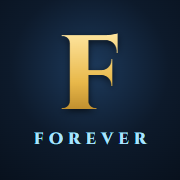
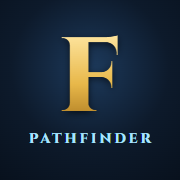
Nuovo nome: Forever Pathfinder

diff --git a/WoW_Forever_Leveling_Companion.html b/WoW_Forever_Leveling_Companion.html
@@ -2,8 +2,8 @@
 <html lang="it"><head>
 <meta charset="utf-8"><meta name="viewport" content="width=device-width, initial-scale=1, viewport-fit=cover">
 <meta name="theme-color" content="#0a1422">
-<link rel="manifest" href="manifest.webmanifest"><link rel="icon" href="icon-192.png"><link rel="apple-touch-icon" href="icon-180.png"><meta name="apple-mobile-web-app-capable" content="yes"><meta name="mobile-web-app-capable" content="yes"><meta name="apple-mobile-web-app-title" content="WoW Forever">
-<title>WoW Forever Leveling Companion</title>
+<link rel="manifest" href="manifest.webmanifest"><link rel="icon" href="icon-192.png"><link rel="apple-touch-icon" href="icon-180.png"><meta name="apple-mobile-web-app-capable" content="yes"><meta name="mobile-web-app-capable" content="yes"><meta name="apple-mobile-web-app-title" content="Pathfinder">
+<title>Forever Pathfinder – WoW: Forever</title>
 <script>/* lingua: quella scelta con la bandierina, altrimenti quella del browser */try{var lg=localStorage.getItem('wfcLang')||(/^it/i.test(navigator.language)?'it':'en');if(lg!==document.documentElement.lang)location.replace((lg==='en'?'WoW_Forever_Leveling_Companion_EN.html':'WoW_Forever_Leveling_Companion.html')+location.search+location.hash)}catch(e){}</script>
 <link rel="preconnect" href="https://fonts.googleapis.com"><link rel="preconnect" href="https://fonts.gstatic.com" crossorigin>
 <link href="https://fonts.googleapis.com/css2?family=Cinzel:wght@600;800&family=Inter:wght@400;600;800&display=swap" rel="stylesheet">
@@ -263,7 +263,7 @@ body.home main,body.home nav,body.home #cbar,body:not(.home) #home{display:none}
 <header class="hero">
  <div class="herobg" aria-hidden="true"><div id="herobg"></div></div>
  <a class="lang" id="lang" href="WoW_Forever_Leveling_Companion_EN.html" hreflang="en" title="English" aria-label="English"><svg viewBox="0 0 60 30" width="34" height="17" aria-hidden="true"><path fill="#012169" d="M0 0h60v30H0z"/><path stroke="#fff" stroke-width="6" d="M0 0l60 30M60 0L0 30"/><path stroke="#C8102E" stroke-width="2" d="M0 0l60 30M60 0L0 30"/><path stroke="#fff" stroke-width="10" d="M30 0v30M0 15h60"/><path stroke="#C8102E" stroke-width="6" d="M30 0v30M0 15h60"/></svg></a>
- <h1 class="ttl"><small>World of Warcraft</small><b>Forever</b><i>Leveling Companion</i></h1>
+ <h1 class="ttl"><small>World of Warcraft</small><b>Forever</b><i>Pathfinder</i></h1>
  <p id="hsub"></p>
  <p>Uscita: <b id="hlaunch"></b> · <span class="cd" id="cd"></span></p>
  <div class="hbtns"><button class="btn" id="bShare" type="button">⇄ Passa a un altro dispositivo</button>
@@ -711,11 +711,11 @@ function renderClass(){
  // fonti
  $('srct').innerHTML='<tr><th>Fonte</th><th>Data / segnale</th><th>Cosa ho preso</th></tr>'+CL.sources.concat(FA.sources,C.sources,D.profs?D.profs.sources:[],D.alts?D.alts.sources:[]).map(srcRow).join('');
  // testata
- document.title=RA.name+' '+CL.name+' '+CL.spec+' – WoW Forever';document.documentElement.style.setProperty('--cc',CL.color||'var(--ice)');
+ document.title=RA.name+' '+CL.name+' '+CL.spec+' – Forever Pathfinder';document.documentElement.style.setProperty('--cc',CL.color||'var(--ice)');
  $('hsub').innerHTML='Guida leveling 1–'+MAXL+' per WoW: Forever · '+FN[RA.faction]+' · <b>'+C.version+'</b> · '+C.updated;
  $('herobg').innerHTML=RT.hero.map(function(u){return '<img src="'+u+'" alt="">'}).join('');
  var vi=document.querySelector('.visits img');vi.onerror=function(){vi.outerHTML='Contatore visite bloccato da un adblock: <a href="'+vi.dataset.src+'" target="_blank" rel="noopener">aprilo qui</a>'};if(!navigator.webdriver)vi.src=vi.dataset.src;
- $('foot').textContent='Guida personale · WoW: Forever Leveling Companion · '+C.version+' ('+C.updated+'). Non affiliata a Blizzard. Icone © Blizzard via Wowhead.';
+ $('foot').textContent='Guida personale · Forever Pathfinder · '+C.version+' ('+C.updated+'). Non affiliata a Blizzard. Icone © Blizzard via Wowhead.';
  $('lvr').max=MAXL;$('tlsum').textContent='Tutto il percorso 1–'+MAXL+' in una riga temporale';
  WF.shown=null;wfFit();
 }
@@ -891,7 +891,7 @@ function preBtns(add){return P.list.map(function(p,i){var s=fix(p.s),rc=D.races[
   return '<button type="button" class="pre'+(i===P.cur?' on':'')+'" data-pi="'+i+'"><img src="'+IC('classicon_'+s.c)+'" alt=""><span><b>'+esc(p.n||rc)+'</b><small>'+(p.n?rc+' ':'')+pSpec(s)+' · liv. '+s.L+'</small></span></button>'}).join('')+
  (add?'<button type="button" class="pre add" data-pi="new">＋ Nuovo personaggio</button>':'')}
 // salvataggio su file: .txt con una riga di spiegazione e tutti i personaggi (P) in base64; lo rilegge solo "Carica salvataggio"
-var SVH='WoW Forever Leveling Companion - file di salvataggio. Per ripristinarlo: guida, 👥 Personaggi, Carica salvataggio. Non modificare la riga qui sotto.';
+var SVH='Forever Pathfinder (WoW: Forever) - file di salvataggio. Per ripristinarlo: guida, 👥 Personaggi, Carica salvataggio. Non modificare la riga qui sotto.';
 $('svSave').onclick=function(){var a=document.createElement('a');a.href=URL.createObjectURL(new Blob([SVH+'\n'+btoa(unescape(encodeURIComponent(JSON.stringify(P))))+'\n'],{type:'text/plain'}));a.download='WoW-Forever-salvataggio-'+new Date().toISOString().slice(0,10)+'.txt';a.click();setTimeout(function(){URL.revokeObjectURL(a.href)},1000)};
 $('svLoad').onchange=function(){var f=this.files[0];this.value='';if(f)f.text().then(function(t){var p=null;try{p=JSON.parse(decodeURIComponent(escape(atob(t.trim().split('\n').pop().trim()))));p.list=p.list.filter(function(x){return x&&x.s})}catch(e){p=null}
  if(!p||!p.list||!p.list.length)return alert('Questo file non è un salvataggio della guida.');

diff --git a/WoW_Forever_Leveling_Companion_EN.html b/WoW_Forever_Leveling_Companion_EN.html
@@ -2,8 +2,8 @@
 <html lang="en"><head>
 <meta charset="utf-8"><meta name="viewport" content="width=device-width, initial-scale=1, viewport-fit=cover">
 <meta name="theme-color" content="#0a1422">
-<link rel="manifest" href="manifest.webmanifest"><link rel="icon" href="icon-192.png"><link rel="apple-touch-icon" href="icon-180.png"><meta name="apple-mobile-web-app-capable" content="yes"><meta name="mobile-web-app-capable" content="yes"><meta name="apple-mobile-web-app-title" content="WoW Forever">
-<title>WoW Forever Leveling Companion</title>
+<link rel="manifest" href="manifest.webmanifest"><link rel="icon" href="icon-192.png"><link rel="apple-touch-icon" href="icon-180.png"><meta name="apple-mobile-web-app-capable" content="yes"><meta name="mobile-web-app-capable" content="yes"><meta name="apple-mobile-web-app-title" content="Pathfinder">
+<title>Forever Pathfinder – WoW: Forever</title>
 <script>/* lingua: quella scelta con la bandierina, altrimenti quella del browser */try{var lg=localStorage.getItem('wfcLang')||(/^it/i.test(navigator.language)?'it':'en');if(lg!==document.documentElement.lang)location.replace((lg==='en'?'WoW_Forever_Leveling_Companion_EN.html':'WoW_Forever_Leveling_Companion.html')+location.search+location.hash)}catch(e){}</script>
 <link rel="preconnect" href="https://fonts.googleapis.com"><link rel="preconnect" href="https://fonts.gstatic.com" crossorigin>
 <link href="https://fonts.googleapis.com/css2?family=Cinzel:wght@600;800&family=Inter:wght@400;600;800&display=swap" rel="stylesheet">
@@ -263,7 +263,7 @@ body.home main,body.home nav,body.home #cbar,body:not(.home) #home{display:none}
 <header class="hero">
  <div class="herobg" aria-hidden="true"><div id="herobg"></div></div>
  <a class="lang" id="lang" href="WoW_Forever_Leveling_Companion.html" hreflang="it" title="Italiano" aria-label="Italiano"><svg viewBox="0 0 3 2" width="26" height="17" aria-hidden="true"><path fill="#009246" d="M0 0h1v2H0z"/><path fill="#fff" d="M1 0h1v2H1z"/><path fill="#CE2B37" d="M2 0h1v2H2z"/></svg></a>
- <h1 class="ttl"><small>World of Warcraft</small><b>Forever</b><i>Leveling Companion</i></h1>
+ <h1 class="ttl"><small>World of Warcraft</small><b>Forever</b><i>Pathfinder</i></h1>
  <p id="hsub"></p>
  <p>Release: <b id="hlaunch"></b> · <span class="cd" id="cd"></span></p>
  <div class="hbtns"><button class="btn" id="bShare" type="button">⇄ Continue on another device</button>
@@ -711,11 +711,11 @@ function renderClass(){
  // fonti
  $('srct').innerHTML='<tr><th>Source</th><th>Date / signal</th><th>What I took</th></tr>'+CL.sources.concat(FA.sources,C.sources,D.profs?D.profs.sources:[],D.alts?D.alts.sources:[]).map(srcRow).join('');
  // testata
- document.title=RA.name+' '+CL.name+' '+CL.spec+' – WoW Forever';document.documentElement.style.setProperty('--cc',CL.color||'var(--ice)');
+ document.title=RA.name+' '+CL.name+' '+CL.spec+' – Forever Pathfinder';document.documentElement.style.setProperty('--cc',CL.color||'var(--ice)');
  $('hsub').innerHTML='Leveling guide 1–'+MAXL+' for WoW: Forever · '+FN[RA.faction]+' · <b>'+C.version+'</b> · '+C.updated;
  $('herobg').innerHTML=RT.hero.map(function(u){return '<img src="'+u+'" alt="">'}).join('');
  var vi=document.querySelector('.visits img');vi.onerror=function(){vi.outerHTML='Visit counter blocked by an ad blocker: <a href="'+vi.dataset.src+'" target="_blank" rel="noopener">open it here</a>'};if(!navigator.webdriver)vi.src=vi.dataset.src;
- $('foot').textContent='Personal guide · WoW: Forever Leveling Companion · '+C.version+' ('+C.updated+'). Not affiliated with Blizzard. Icons © Blizzard via Wowhead.';
+ $('foot').textContent='Personal guide · Forever Pathfinder · '+C.version+' ('+C.updated+'). Not affiliated with Blizzard. Icons © Blizzard via Wowhead.';
  $('lvr').max=MAXL;$('tlsum').textContent='The whole route 1–'+MAXL+' as a timeline';
  WF.shown=null;wfFit();
 }
@@ -891,7 +891,7 @@ function preBtns(add){return P.list.map(function(p,i){var s=fix(p.s),rc=D.races[
   return '<button type="button" class="pre'+(i===P.cur?' on':'')+'" data-pi="'+i+'"><img src="'+IC('classicon_'+s.c)+'" alt=""><span><b>'+esc(p.n||rc)+'</b><small>'+(p.n?rc+' ':'')+pSpec(s)+' · lvl '+s.L+'</small></span></button>'}).join('')+
  (add?'<button type="button" class="pre add" data-pi="new">＋ New character</button>':'')}
 // salvataggio su file: .txt con una riga di spiegazione e tutti i personaggi (P) in base64; lo rilegge solo "Carica salvataggio"
-var SVH='WoW Forever Leveling Companion - save file. To restore it: guide, 👥 Characters, Load save file. Do not edit the line below.';
+var SVH='Forever Pathfinder (WoW: Forever) - save file. To restore it: guide, 👥 Characters, Load save file. Do not edit the line below.';
 $('svSave').onclick=function(){var a=document.createElement('a');a.href=URL.createObjectURL(new Blob([SVH+'\n'+btoa(unescape(encodeURIComponent(JSON.stringify(P))))+'\n'],{type:'text/plain'}));a.download='WoW-Forever-save-'+new Date().toISOString().slice(0,10)+'.txt';a.click();setTimeout(function(){URL.revokeObjectURL(a.href)},1000)};
 $('svLoad').onchange=function(){var f=this.files[0];this.value='';if(f)f.text().then(function(t){var p=null;try{p=JSON.parse(decodeURIComponent(escape(atob(t.trim().split('\n').pop().trim()))));p.list=p.list.filter(function(x){return x&&x.s})}catch(e){p=null}
  if(!p||!p.list||!p.list.length)return alert('This file is not a save file of this guide.');

diff --git a/src/engine.js b/src/engine.js
@@ -236,11 +236,11 @@ function renderClass(){
  // fonti
  $('srct').innerHTML='<tr><th>Fonte</th><th>Data / segnale</th><th>Cosa ho preso</th></tr>'+CL.sources.concat(FA.sources,C.sources,D.profs?D.profs.sources:[],D.alts?D.alts.sources:[]).map(srcRow).join('');
  // testata
- document.title=RA.name+' '+CL.name+' '+CL.spec+' – WoW Forever';document.documentElement.style.setProperty('--cc',CL.color||'var(--ice)');
+ document.title=RA.name+' '+CL.name+' '+CL.spec+' – Forever Pathfinder';document.documentElement.style.setProperty('--cc',CL.color||'var(--ice)');
  $('hsub').innerHTML='Guida leveling 1–'+MAXL+' per WoW: Forever · '+FN[RA.faction]+' · <b>'+C.version+'</b> · '+C.updated;
  $('herobg').innerHTML=RT.hero.map(function(u){return '<img src="'+u+'" alt="">'}).join('');
  var vi=document.querySelector('.visits img');vi.onerror=function(){vi.outerHTML='Contatore visite bloccato da un adblock: <a href="'+vi.dataset.src+'" target="_blank" rel="noopener">aprilo qui</a>'};if(!navigator.webdriver)vi.src=vi.dataset.src;
- $('foot').textContent='Guida personale · WoW: Forever Leveling Companion · '+C.version+' ('+C.updated+'). Non affiliata a Blizzard. Icone © Blizzard via Wowhead.';
+ $('foot').textContent='Guida personale · Forever Pathfinder · '+C.version+' ('+C.updated+'). Non affiliata a Blizzard. Icone © Blizzard via Wowhead.';
  $('lvr').max=MAXL;$('tlsum').textContent='Tutto il percorso 1–'+MAXL+' in una riga temporale';
  WF.shown=null;wfFit();
 }
@@ -416,7 +416,7 @@ function preBtns(add){return P.list.map(function(p,i){var s=fix(p.s),rc=D.races[
   return '<button type="button" class="pre'+(i===P.cur?' on':'')+'" data-pi="'+i+'"><img src="'+IC('classicon_'+s.c)+'" alt=""><span><b>'+esc(p.n||rc)+'</b><small>'+(p.n?rc+' ':'')+pSpec(s)+' · liv. '+s.L+'</small></span></button>'}).join('')+
  (add?'<button type="button" class="pre add" data-pi="new">＋ Nuovo personaggio</button>':'')}
 // salvataggio su file: .txt con una riga di spiegazione e tutti i personaggi (P) in base64; lo rilegge solo "Carica salvataggio"
-var SVH='WoW Forever Leveling Companion - file di salvataggio. Per ripristinarlo: guida, 👥 Personaggi, Carica salvataggio. Non modificare la riga qui sotto.';
+var SVH='Forever Pathfinder (WoW: Forever) - file di salvataggio. Per ripristinarlo: guida, 👥 Personaggi, Carica salvataggio. Non modificare la riga qui sotto.';
 $('svSave').onclick=function(){var a=document.createElement('a');a.href=URL.createObjectURL(new Blob([SVH+'\n'+btoa(unescape(encodeURIComponent(JSON.stringify(P))))+'\n'],{type:'text/plain'}));a.download='WoW-Forever-salvataggio-'+new Date().toISOString().slice(0,10)+'.txt';a.click();setTimeout(function(){URL.revokeObjectURL(a.href)},1000)};
 $('svLoad').onchange=function(){var f=this.files[0];this.value='';if(f)f.text().then(function(t){var p=null;try{p=JSON.parse(decodeURIComponent(escape(atob(t.trim().split('\n').pop().trim()))));p.list=p.list.filter(function(x){return x&&x.s})}catch(e){p=null}
  if(!p||!p.list||!p.list.length)return alert('Questo file non è un salvataggio della guida.');

diff --git a/src/template.html b/src/template.html
@@ -2,8 +2,8 @@
 <html lang="it"><head>
 <meta charset="utf-8"><meta name="viewport" content="width=device-width, initial-scale=1, viewport-fit=cover">
 <meta name="theme-color" content="#0a1422">
-<link rel="manifest" href="manifest.webmanifest"><link rel="icon" href="icon-192.png"><link rel="apple-touch-icon" href="icon-180.png"><meta name="apple-mobile-web-app-capable" content="yes"><meta name="mobile-web-app-capable" content="yes"><meta name="apple-mobile-web-app-title" content="WoW Forever">
-<title>WoW Forever Leveling Companion</title>
+<link rel="manifest" href="manifest.webmanifest"><link rel="icon" href="icon-192.png"><link rel="apple-touch-icon" href="icon-180.png"><meta name="apple-mobile-web-app-capable" content="yes"><meta name="mobile-web-app-capable" content="yes"><meta name="apple-mobile-web-app-title" content="Pathfinder">
+<title>Forever Pathfinder – WoW: Forever</title>
 <script>/* lingua: quella scelta con la bandierina, altrimenti quella del browser */try{var lg=localStorage.getItem('wfcLang')||(/^it/i.test(navigator.language)?'it':'en');if(lg!==document.documentElement.lang)location.replace((lg==='en'?'WoW_Forever_Leveling_Companion_EN.html':'WoW_Forever_Leveling_Companion.html')+location.search+location.hash)}catch(e){}</script>
 <link rel="preconnect" href="https://fonts.googleapis.com"><link rel="preconnect" href="https://fonts.gstatic.com" crossorigin>
 <link href="https://fonts.googleapis.com/css2?family=Cinzel:wght@600;800&family=Inter:wght@400;600;800&display=swap" rel="stylesheet">
@@ -15,7 +15,7 @@
 <header class="hero">
  <div class="herobg" aria-hidden="true"><div id="herobg"></div></div>
  <a class="lang" id="lang" href="WoW_Forever_Leveling_Companion_EN.html" hreflang="en" title="English" aria-label="English"><svg viewBox="0 0 60 30" width="34" height="17" aria-hidden="true"><path fill="#012169" d="M0 0h60v30H0z"/><path stroke="#fff" stroke-width="6" d="M0 0l60 30M60 0L0 30"/><path stroke="#C8102E" stroke-width="2" d="M0 0l60 30M60 0L0 30"/><path stroke="#fff" stroke-width="10" d="M30 0v30M0 15h60"/><path stroke="#C8102E" stroke-width="6" d="M30 0v30M0 15h60"/></svg></a>
- <h1 class="ttl"><small>World of Warcraft</small><b>Forever</b><i>Leveling Companion</i></h1>
+ <h1 class="ttl"><small>World of Warcraft</small><b>Forever</b><i>Pathfinder</i></h1>
  <p id="hsub"></p>
  <p>Uscita: <b id="hlaunch"></b> · <span class="cd" id="cd"></span></p>
  <div class="hbtns"><button class="btn" id="bShare" type="button">⇄ Passa a un altro dispositivo</button>

diff --git a/src/tools/build.js b/src/tools/build.js
@@ -211,7 +211,7 @@ if (miss.size) W(miss.size + ' testi senza traduzione inglese → src/i18n/missi
 /* ---- riepilogo Markdown (stessi dati della pagina) ---- */
 const strip = s => String(s || '').replace(/<[^>]+>/g, '').replace(/\s+/g, ' ').trim();
 const grp = b => { const g = []; b.slice(0, MAXL - 9).forEach((k, i) => { const l = g[g.length - 1]; if (l && l.k === k) { l.to = 10 + i; l.n++; } else g.push({ k, from: 10 + i, to: 10 + i, n: 1 }); }); return g; };
-let md = `# WoW Forever – Leveling Companion 1–${MAXL} (${common.version})\n\n> Aggiornato: **${common.updated}**. Riepilogo della pagina \`WoW_Forever_Leveling_Companion.html\` (aprila per mappa, calcolatore talent e planner per livello).\n> Lancio: ${common.launchText}. Legenda: ✔ confermato · 🟡 fonte singola · ★ novità di Forever.\n\n## Razze e classi\n| Razza | Fazione | Zona iniziale | Classi |\n|---|---|---|---|\n`;
+let md = `# Forever Pathfinder – WoW: Forever leveling 1–${MAXL} (${common.version})\n\n> Aggiornato: **${common.updated}**. Riepilogo della pagina \`WoW_Forever_Leveling_Companion.html\` (aprila per mappa, calcolatore talent e planner per livello).\n> Lancio: ${common.launchText}. Legenda: ✔ confermato · 🟡 fonte singola · ★ novità di Forever.\n\n## Razze e classi\n| Razza | Fazione | Zona iniziale | Classi |\n|---|---|---|---|\n`;
 for (const r of Object.values(races)) md += `| ${r.name} | ${r.faction === 'A' ? 'Alleanza' : 'Orda'} | ${routes[r.start] ? routes[r.start].name : r.start} | ${r.classes.map(c => classes[c] ? classes[c].name : c + ' (in arrivo)').join(', ')} |\n`;
 md += `\n## Build per classe (talent point 10–${MAXL})\n`;
 for (const [k, c] of Object.entries(classes)) {

diff --git a/src/tools/icon.js b/src/tools/icon.js
@@ -5,8 +5,8 @@ const H=`<html><head><link href="https://fonts.googleapis.com/css2?family=Cinzel
 html,body{margin:0}body{width:512px;height:512px;display:flex;flex-direction:column;align-items:center;justify-content:center;
 background:radial-gradient(circle at 50% 38%,#1d3a5c 0,#0d1a2b 55%,#08111d 100%);font-family:Cinzel,serif}
 b{font-size:300px;line-height:.9;background:linear-gradient(#ffe7a3,#e8b84a 55%,#a8761e);-webkit-background-clip:text;color:transparent;filter:drop-shadow(0 6px 10px #000a)}
-i{font-style:normal;font-size:46px;letter-spacing:.32em;margin-left:.32em;color:#a9e4ff;margin-top:8px}
-</style></head><body><b>F</b><i>FOREVER</i></body></html>`;
+i{font-style:normal;font-size:40px;letter-spacing:.2em;margin-left:.2em;color:#a9e4ff;margin-top:8px}
+</style></head><body><b>F</b><i>PATHFINDER</i></body></html>`;
 (async()=>{const b=await chromium.launch({channel:'chrome'});
  for(const s of [512,192,180]){const p=await b.newPage({viewport:{width:512,height:512},deviceScaleFactor:s/512});await p.setContent(H,{waitUntil:'networkidle'});await p.evaluate(()=>document.fonts.ready);
   await p.screenshot({path:O+'/icon-'+s+'.png'});await p.close()}

diff --git a/index.html b/index.html
@@ -1,6 +1,6 @@
 <!doctype html>
 <html lang="it"><head><meta charset="utf-8"><meta name="viewport" content="width=device-width, initial-scale=1">
-<title>WoW Forever Leveling Companion</title>
+<title>Forever Pathfinder – WoW: Forever</title>
 <meta http-equiv="refresh" content="0; url=WoW_Forever_Leveling_Companion.html">
 <script>location.replace('WoW_Forever_Leveling_Companion.html'+location.hash)</script>
 <style>body{background:#08111d;color:#e7eef7;font:16px system-ui,sans-serif;padding:24px}a{color:#6fc3ff}</style>

diff --git a/src/AGGIORNARE.md b/src/AGGIORNARE.md
@@ -1,4 +1,4 @@
-# WoW Forever Leveling Companion — contesto per ripartire (aggiornato 2 nov 2026, v10.3)
+# Forever Pathfinder (ex WoW Forever Leveling Companion) — contesto per ripartire (aggiornato 2 nov 2026, v10.3)
 
 Guida leveling 1–30 per **WoW: Forever** (Classic+, lancio 4 nov 2026) per tutte le 10 razze e 9 classi. Pubblica:
 https://forever-companion.github.io/ · repo `forever-companion/forever-companion.github.io` (GitHub Pages da `main`, root; commit con email noreply `80699208+Stalioot@users.noreply.github.com`, trailer `Co-Authored-By: Claude Opus 5.5 <noreply@anthropic.com>`). Il vecchio indirizzo stalioot.github.io/wow-forever-leveling-companion/ è un repo di solo rimando (`Stalioot/wow-forever-leveling-companion`, spostato all'org il 2 nov).

diff --git a/WoW_Forever_Leveling_Companion.md b/WoW_Forever_Leveling_Companion.md
@@ -1,4 +1,4 @@
-# WoW Forever – Leveling Companion 1–30 (v10)
+# Forever Pathfinder – WoW: Forever leveling 1–30 (v10)
 
 > Aggiornato: **2 novembre 2026**. Riepilogo della pagina `WoW_Forever_Leveling_Companion.html` (aprila per mappa, calcolatore talent e planner per livello).
 > Lancio: 5 novembre, mezzanotte (ora italiana). Legenda: ✔ confermato · 🟡 fonte singola · ★ novità di Forever.

diff --git a/README.md b/README.md
@@ -1,4 +1,6 @@
-# WoW Forever – Leveling Companion
+# Forever Pathfinder
+
+*(prima: WoW Forever Leveling Companion)*
 
 Guida leveling 1–30 per **WoW: Forever**, per tutte le razze (Skyborne inclusi) e tutte le classi: rotta per zona iniziale, talent per livello con il calcolatore di wowforever.be, rotation, spell, racial, mappa interattiva, bag, dungeon, Crates e Camping.
 
